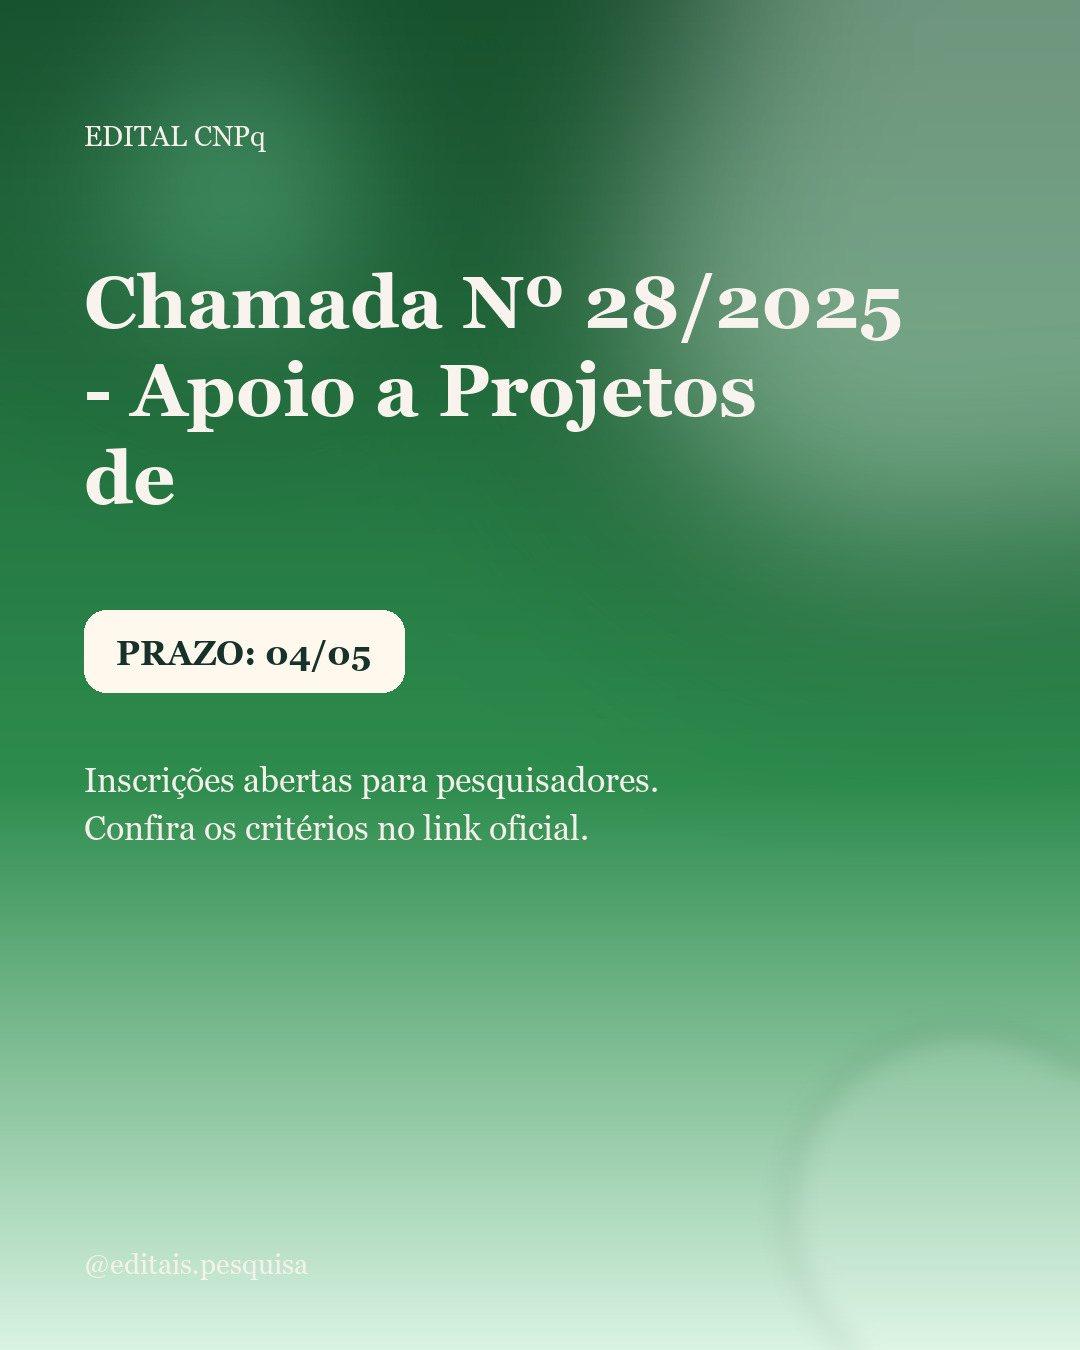
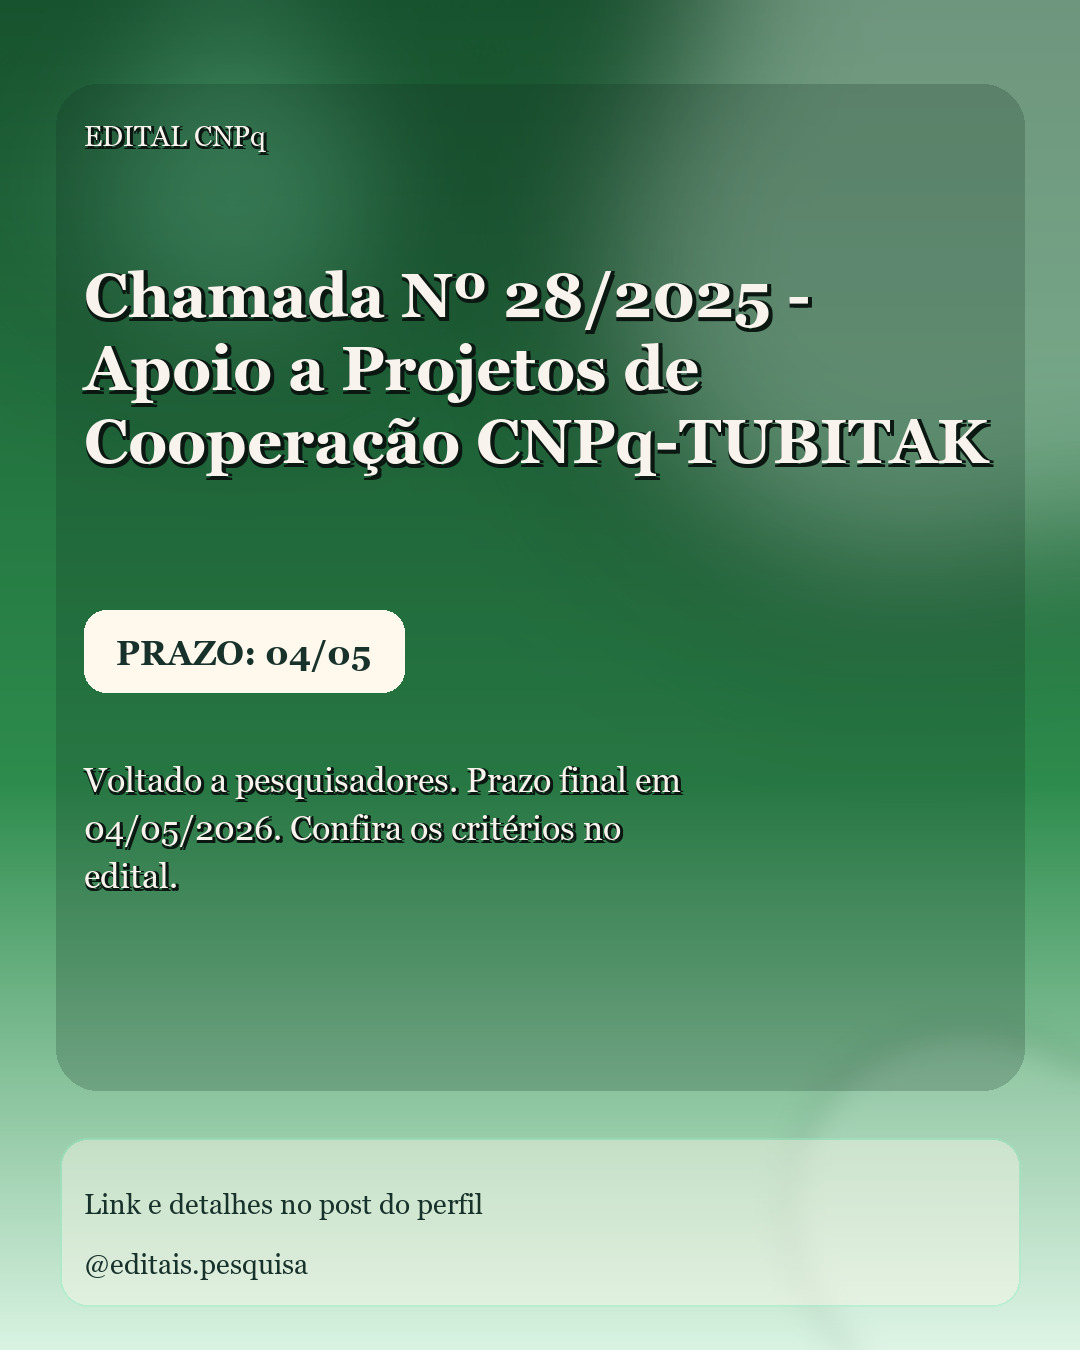
Improve Instagram card readability

diff --git a/src/services/instagram_service.py b/src/services/instagram_service.py
@@ -313,7 +313,7 @@ class InstagramService:
 
     def _build_feed_image(self, edital: Edital) -> Image.Image:
         palette = self._palette(edital)
-        title_lines = self._wrap_text(edital.card_title or edital.titulo, 18, 3)
+        title_text = edital.card_title or edital.titulo
         summary_lines = self._wrap_text(edital.card_summary or edital.resumo or "Resumo nao informado.", 42, 5)
         header = edital.card_header or f"EDITAL {edital.fonte}"
         deadline = edital.card_deadline or "PRAZO A DEFINIR"
@@ -321,35 +321,38 @@ class InstagramService:
         footer_note = edital.card_footer_note or "Link e detalhes no post do perfil"
 
         image = self._build_background(palette, self.FEED_WIDTH, self.FEED_HEIGHT)
+        image = self._apply_feed_content_panels(image, palette)
         draw = ImageDraw.Draw(image)
 
         header_font = self._load_font("regular", 28)
-        title_font = self._load_font("bold", 74)
+        title_lines, title_font = self._fit_title_layout(title_text, max_width=self.FEED_WIDTH - 168, max_lines=3)
         summary_font = self._load_font("regular", 34)
         deadline_font = self._load_font("bold", 34)
         footer_font = self._load_font("regular", 28)
         handle_font = self._load_font("regular", 28)
+        light_text = (248, 244, 237)
+        dark_text = self._hex_to_rgb(palette["deadline_text"])
 
-        draw.text((84, 120), header, font=header_font, fill=(245, 240, 233))
+        self._draw_text_with_shadow(draw, (84, 120), header, header_font, light_text)
 
         y = 260
         for line in title_lines:
-            draw.text((84, y), line, font=title_font, fill=(248, 244, 237))
-            y += 88
+            self._draw_text_with_shadow(draw, (84, y), line, title_font, light_text, shadow_offset=4)
+            y += self._line_height(title_font, extra=16)
 
         badge_box = (84, 610, 404, 692)
         draw.rounded_rectangle(badge_box, radius=22, fill=(255, 248, 236))
         deadline_bbox = draw.textbbox((0, 0), deadline, font=deadline_font)
         deadline_y = badge_box[1] + ((badge_box[3] - badge_box[1]) - (deadline_bbox[3] - deadline_bbox[1])) // 2 - 2
-        draw.text((badge_box[0] + 32, deadline_y), deadline, font=deadline_font, fill=self._hex_to_rgb(palette["deadline_text"]))
+        draw.text((badge_box[0] + 32, deadline_y), deadline, font=deadline_font, fill=dark_text)
 
         y = 760
         for line in summary_lines:
-            draw.text((84, y), line, font=summary_font, fill=(244, 240, 233))
+            self._draw_text_with_shadow(draw, (84, y), line, summary_font, light_text)
             y += 48
 
-        draw.text((84, 1188), footer_note, font=footer_font, fill=(244, 240, 233))
-        draw.text((84, 1248), handle, font=handle_font, fill=(246, 241, 234))
+        draw.text((84, 1188), footer_note, font=footer_font, fill=dark_text)
+        draw.text((84, 1248), handle, font=handle_font, fill=dark_text)
         return image
 
     def _build_story_image(self, edital: Edital) -> Image.Image:
@@ -397,6 +400,14 @@ class InstagramService:
 
         draw.text((120, 1672), "Abra o post do perfil para ver o edital.", font=handle_font, fill=(42, 74, 64))
         return image
+
+    def _apply_feed_content_panels(self, image: Image.Image, palette: dict[str, str]) -> Image.Image:
+        overlay = Image.new("RGBA", image.size, (0, 0, 0, 0))
+        draw = ImageDraw.Draw(overlay)
+        draw.rounded_rectangle((56, 84, 1024, 1090), radius=42, fill=(15, 44, 30, 56))
+        draw.rounded_rectangle((60, 1138, 1020, 1306), radius=28, fill=(255, 248, 236, 108))
+        draw.rounded_rectangle((60, 1138, 1020, 1306), radius=28, outline=self._hex_to_rgb(palette["accent"]) + (92,), width=2)
+        return Image.alpha_composite(image.convert("RGBA"), overlay).convert("RGB")
 
     def _build_background(self, palette: dict[str, str], width: int, height: int) -> Image.Image:
         image = Image.new("RGB", (width, height))
@@ -468,6 +479,107 @@ class InstagramService:
         resample_attr = getattr(Image, "Resampling", Image)
         new_size = (max(1, int(round(image.width * ratio))), max(1, int(round(image.height * ratio))))
         return image.resize(new_size, resample=resample_attr.LANCZOS)
+
+    def _fit_title_layout(
+        self,
+        text: str,
+        max_width: int,
+        max_lines: int,
+    ) -> tuple[list[str], ImageFont.ImageFont | ImageFont.FreeTypeFont]:
+        candidates = (74, 70, 66, 62, 58)
+        for size in candidates:
+            font = self._load_font("bold", size)
+            lines = self._wrap_text_to_width(text, font, max_width, max_lines)
+            if len(lines) <= max_lines:
+                return lines, font
+
+        fallback_font = self._load_font("bold", candidates[-1])
+        fallback_lines = self._wrap_text_to_width(text, fallback_font, max_width, max_lines, allow_overflow=False)
+        return fallback_lines[:max_lines], fallback_font
+
+    def _wrap_text_to_width(
+        self,
+        value: str,
+        font: ImageFont.ImageFont | ImageFont.FreeTypeFont,
+        max_width: int,
+        max_lines: int,
+        allow_overflow: bool = True,
+    ) -> list[str]:
+        words = (value or "").split()
+        if not words:
+            return [""]
+
+        lines: list[str] = []
+        current_words: list[str] = []
+
+        for word in words:
+            candidate_words = current_words + [word]
+            candidate_line = " ".join(candidate_words).strip()
+            if self._text_width(candidate_line, font) <= max_width or not current_words:
+                current_words = candidate_words
+                continue
+            lines.append(" ".join(current_words))
+            current_words = [word]
+
+        if current_words:
+            lines.append(" ".join(current_words))
+
+        if allow_overflow or len(lines) <= max_lines:
+            return lines
+
+        truncated = lines[: max_lines - 1]
+        remaining_words = " ".join(lines[max_lines - 1 :]).split()
+        last_line = self._truncate_line_to_width(" ".join(remaining_words), font, max_width)
+        truncated.append(last_line)
+        return truncated
+
+    def _truncate_line_to_width(
+        self,
+        value: str,
+        font: ImageFont.ImageFont | ImageFont.FreeTypeFont,
+        max_width: int,
+    ) -> str:
+        words = (value or "").split()
+        if not words:
+            return ""
+
+        line = " ".join(words)
+        if self._text_width(line, font) <= max_width:
+            return line
+
+        while words:
+            candidate = " ".join(words).rstrip(" ,;:-") + "..."
+            if self._text_width(candidate, font) <= max_width:
+                return candidate
+            words.pop()
+        return "..."
+
+    def _text_width(self, value: str, font: ImageFont.ImageFont | ImageFont.FreeTypeFont) -> int:
+        dummy = Image.new("RGB", (1, 1))
+        draw = ImageDraw.Draw(dummy)
+        bbox = draw.textbbox((0, 0), value, font=font)
+        return bbox[2] - bbox[0]
+
+    def _line_height(self, font: ImageFont.ImageFont | ImageFont.FreeTypeFont, extra: int = 0) -> int:
+        dummy = Image.new("RGB", (1, 1))
+        draw = ImageDraw.Draw(dummy)
+        bbox = draw.textbbox((0, 0), "Ag", font=font)
+        return (bbox[3] - bbox[1]) + extra
+
+    def _draw_text_with_shadow(
+        self,
+        draw: ImageDraw.ImageDraw,
+        position: tuple[int, int],
+        text: str,
+        font: ImageFont.ImageFont | ImageFont.FreeTypeFont,
+        fill: tuple[int, int, int],
+        shadow_fill: tuple[int, int, int] = (11, 24, 18),
+        shadow_offset: int = 3,
+    ) -> None:
+        x, y = position
+        for dx, dy in ((shadow_offset, shadow_offset), (shadow_offset, 0), (0, shadow_offset)):
+            draw.text((x + dx, y + dy), text, font=font, fill=shadow_fill)
+        draw.text(position, text, font=font, fill=fill)
 
     def _load_font(self, weight: str, size: int) -> ImageFont.ImageFont | ImageFont.FreeTypeFont:
         for font_path in self.FONT_CANDIDATES.get(weight, ()):
